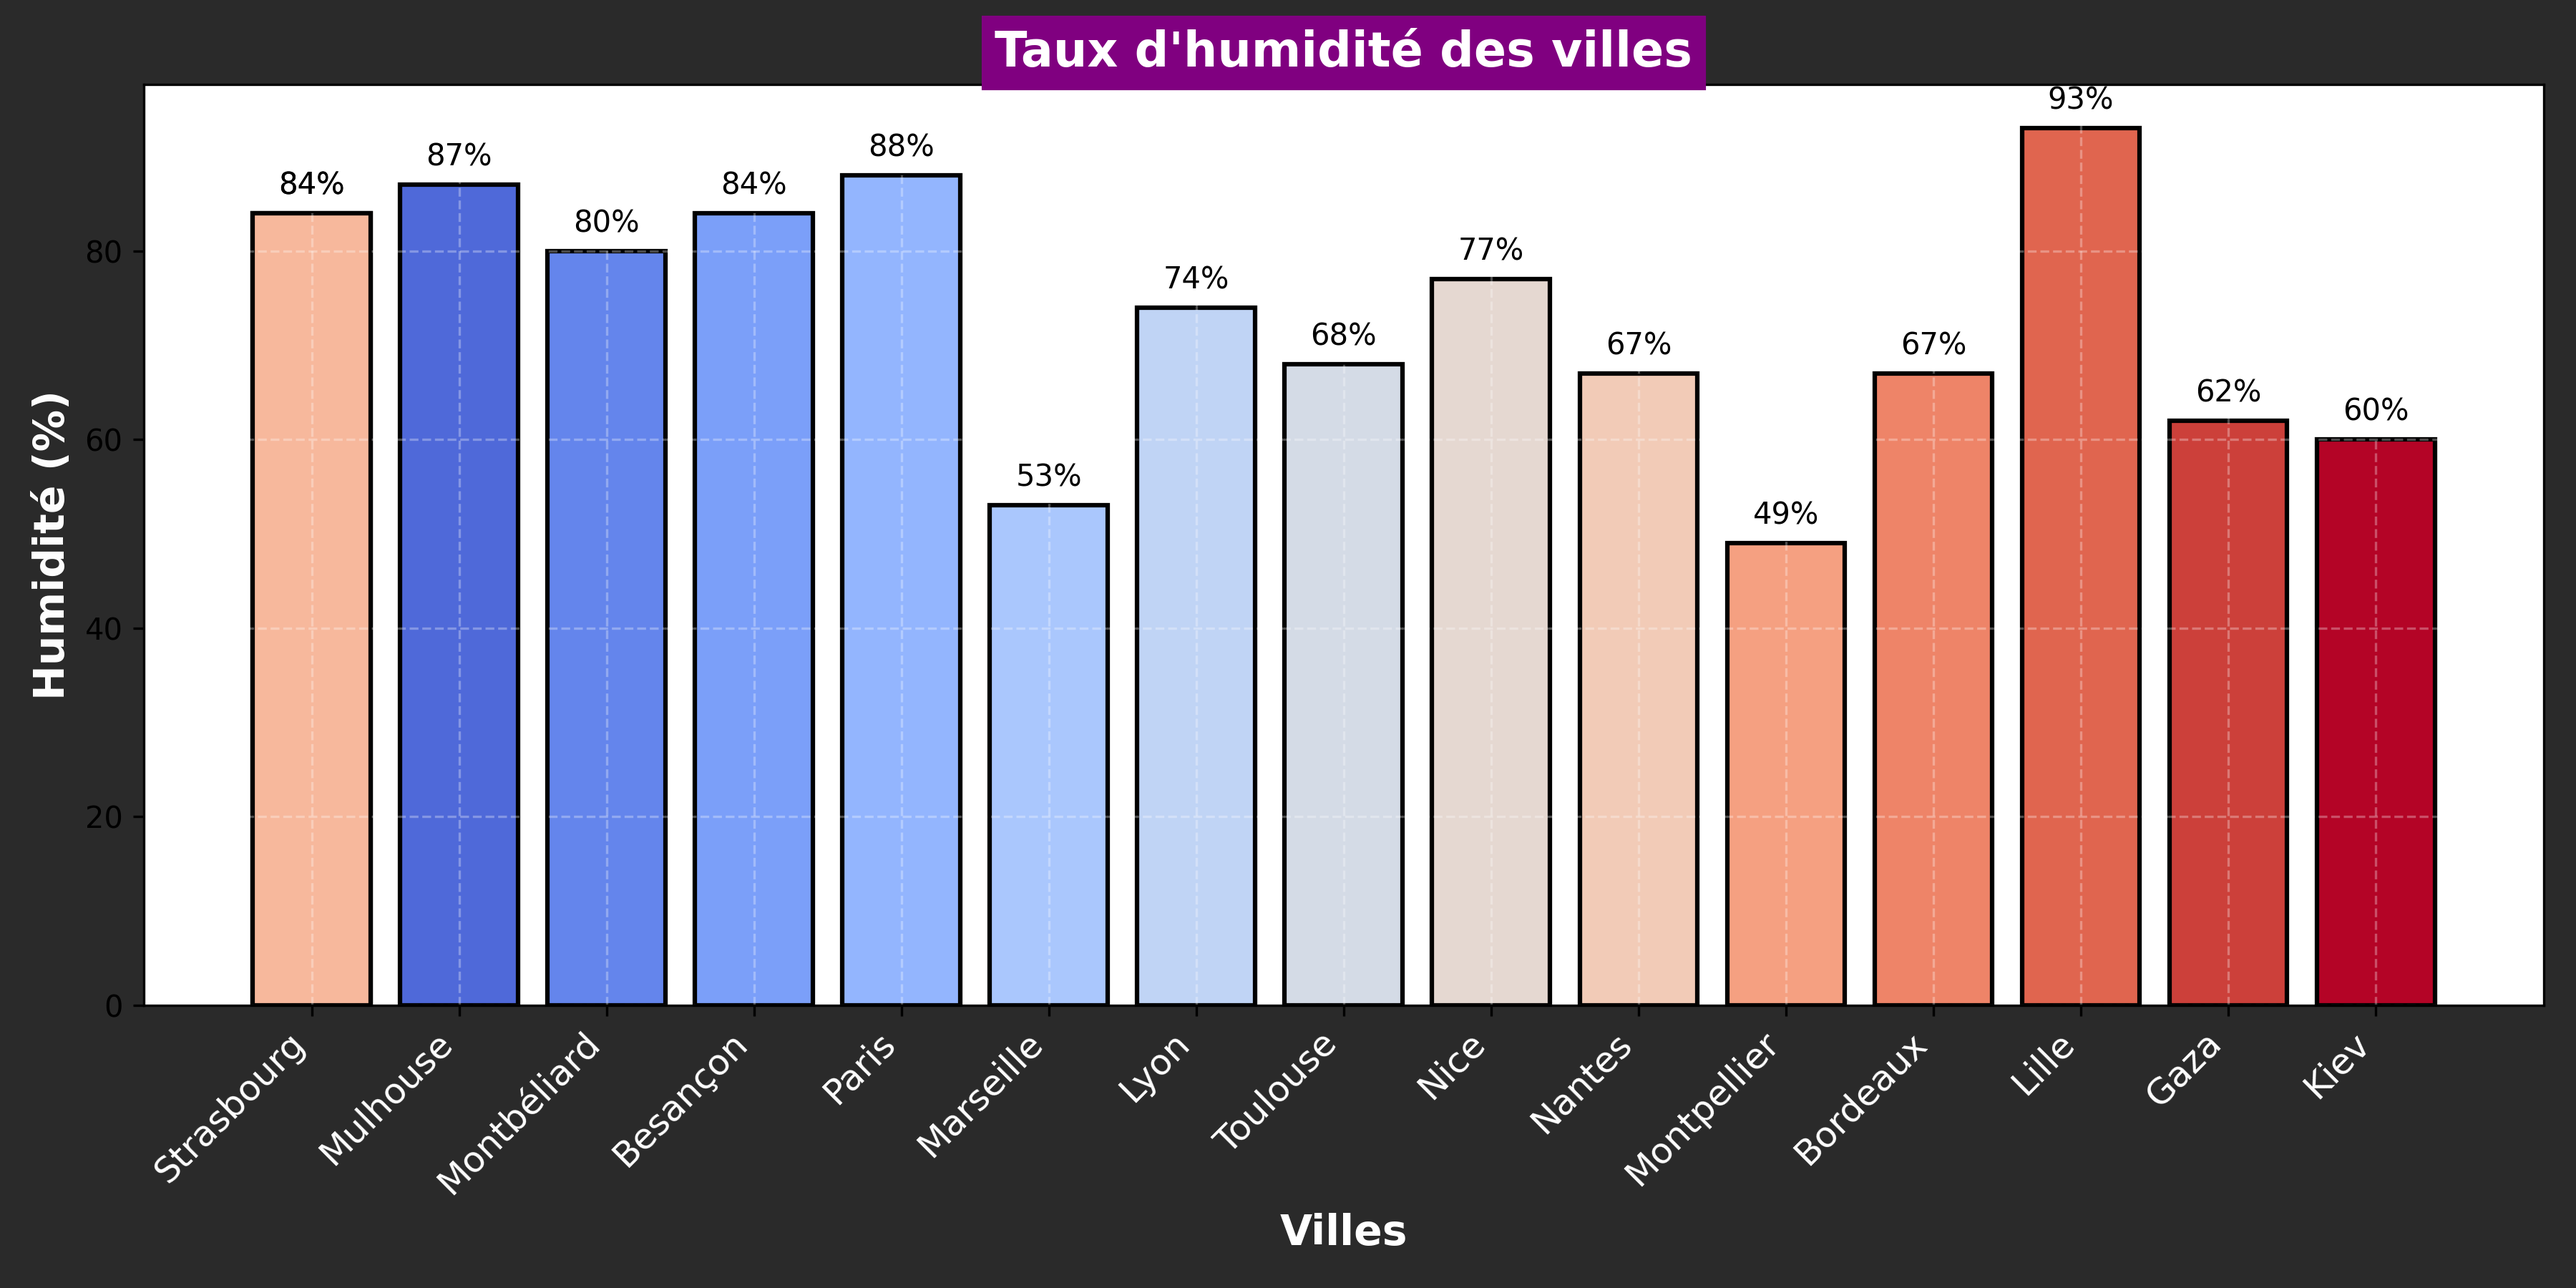
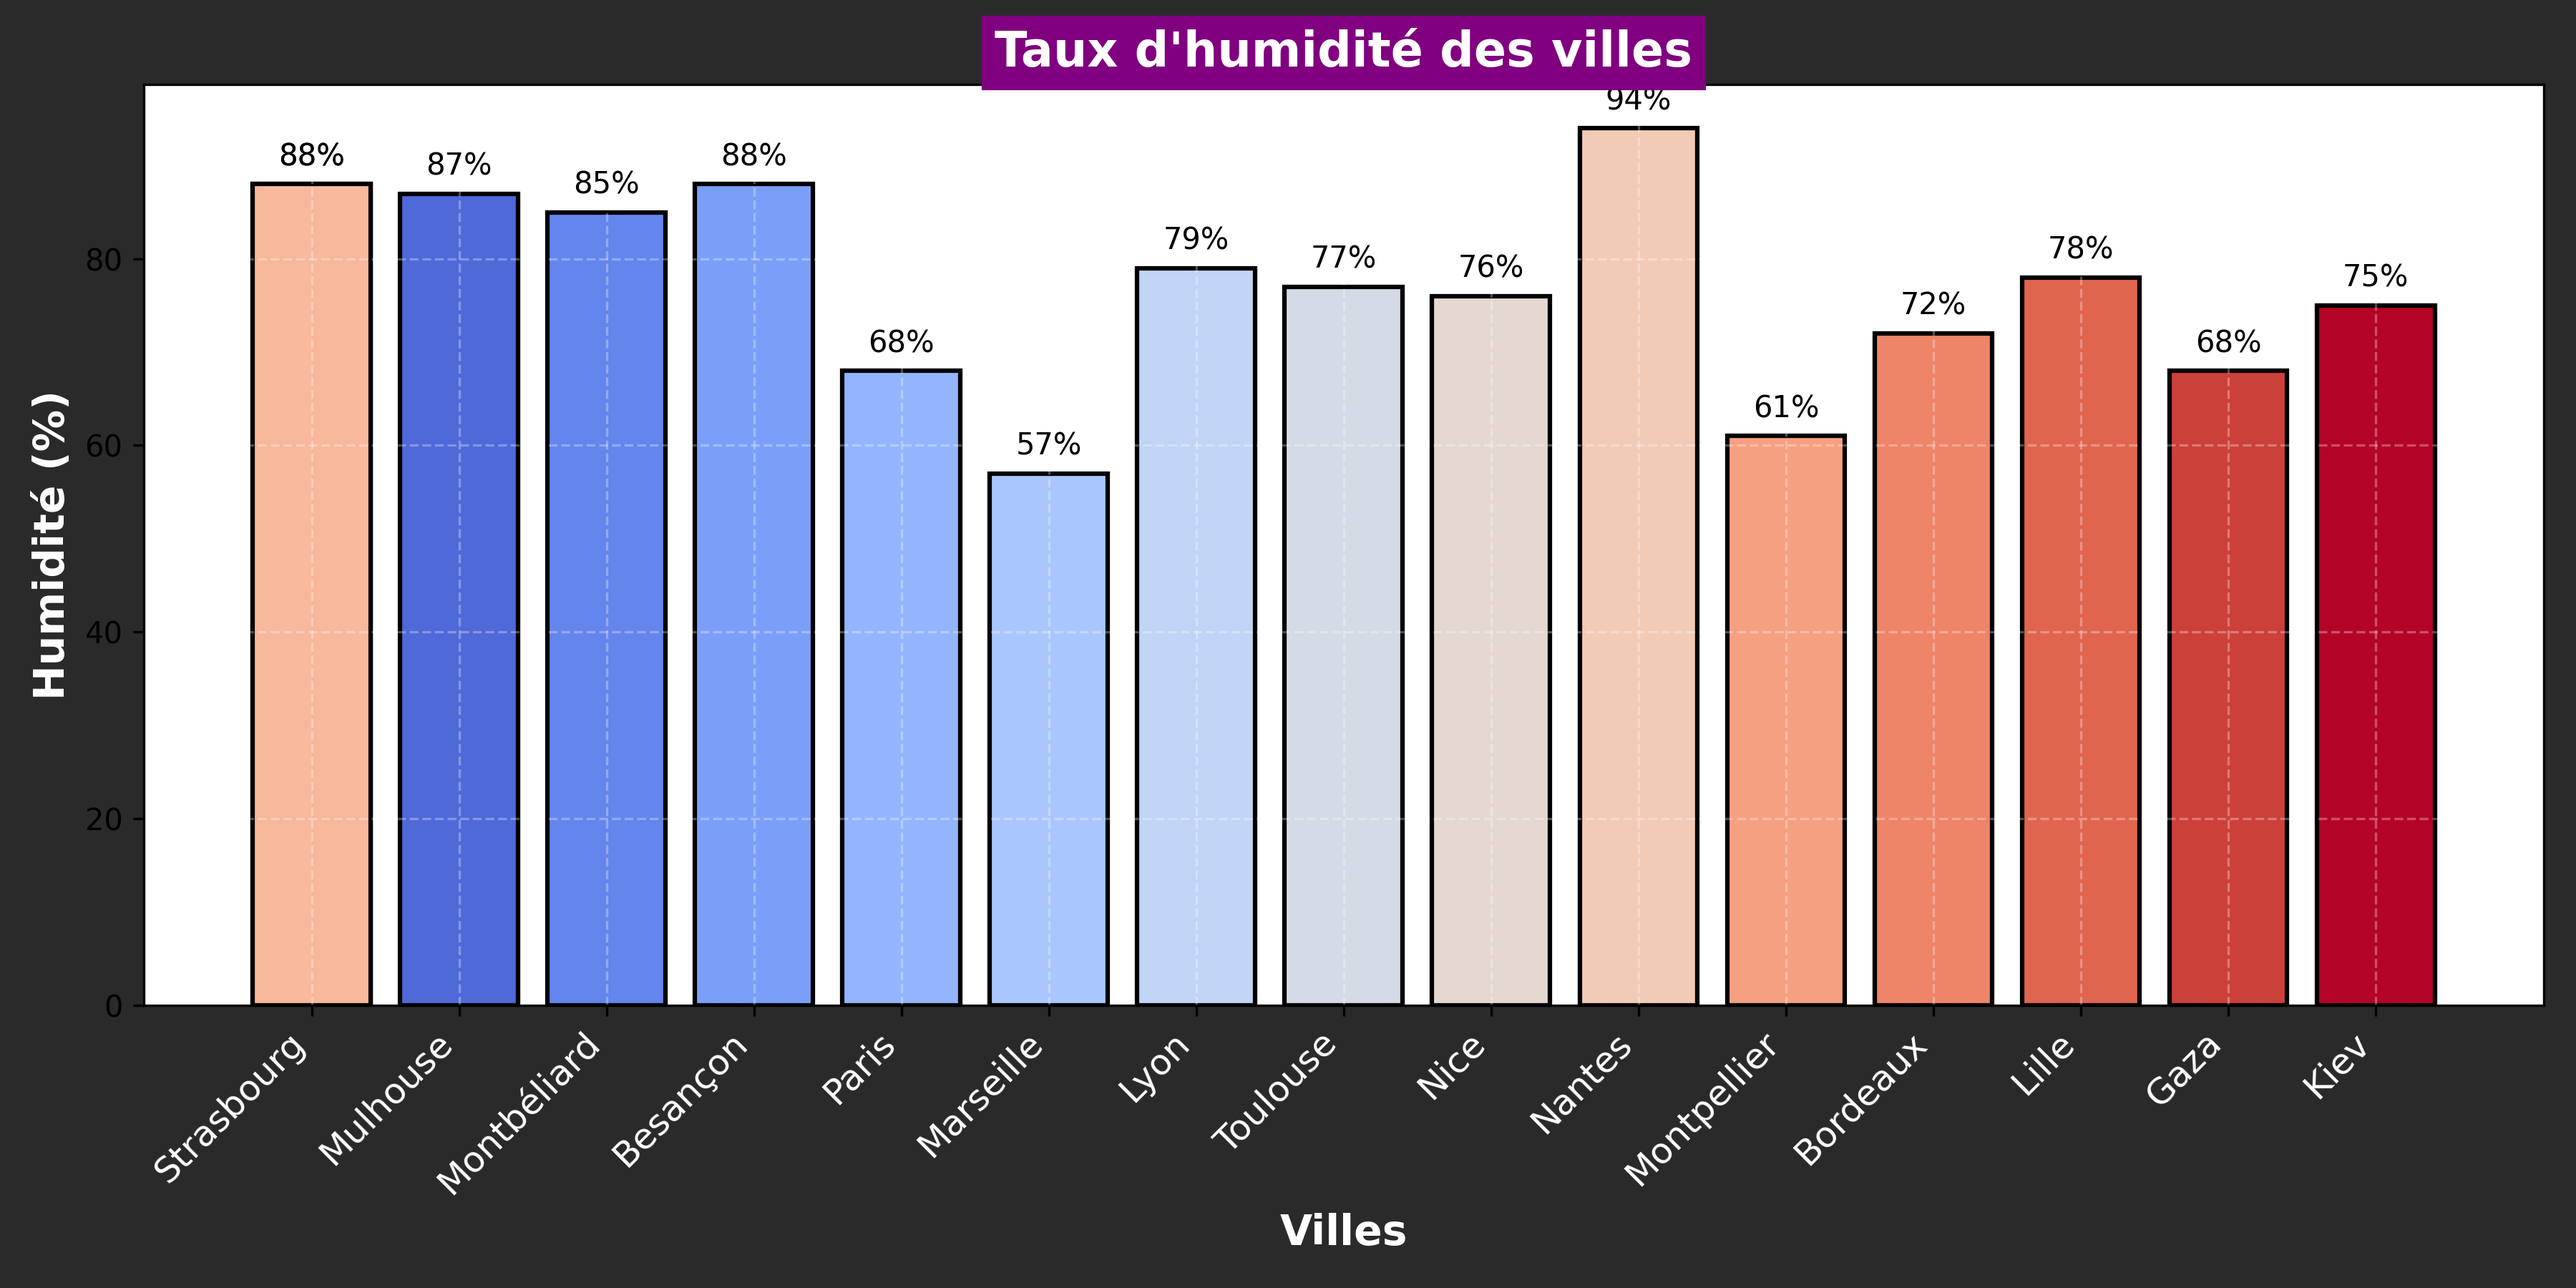
Mise à jour de la météo et ajout du graphique d'humidité

diff --git a/README.md b/README.md
@@ -24,103 +24,103 @@ Ce repo contient plusieurs workflows GitHub Actions :
 ## Météo actuelle :
 ## Météo des grandes villes + Gaza et Kiev 🌍
 
-🕒 Mise à jour : 06/08/2025 08:22:09
+🕒 Mise à jour : 07/08/2025 08:21:29
 
-### 🌍 Strasbourg 🌥
-**Conditions :** nuageux
-**Température :** 13.12°C
-**Humidité :** 84%
-**Vent :** 2.4 m/s
-
-### 🌍 Mulhouse ☀
+### 🌍 Strasbourg ☀
 **Conditions :** ciel dégagé
-**Température :** 13.1°C
-**Humidité :** 87%
-**Vent :** 1.34 m/s
-
-### 🌍 Montbéliard 🌥
-**Conditions :** nuageux
-**Température :** 14.99°C
-**Humidité :** 80%
-**Vent :** 3.93 m/s
-
-### 🌍 Besançon 🌥
-**Conditions :** nuageux
-**Température :** 11.89°C
-**Humidité :** 84%
-**Vent :** 2.13 m/s
-
-### 🌍 Paris ☀
-**Conditions :** ciel dégagé
-**Température :** 13.67°C
+**Température :** 14°C
 **Humidité :** 88%
 **Vent :** 1.03 m/s
 
-### 🌍 Marseille 🌥
+### 🌍 Mulhouse ☀
+**Conditions :** ciel dégagé
+**Température :** 13.8°C
+**Humidité :** 87%
+**Vent :** 1.54 m/s
+
+### 🌍 Montbéliard 🌥
 **Conditions :** partiellement nuageux
-**Température :** 20.29°C
-**Humidité :** 53%
-**Vent :** 1.94 m/s
+**Température :** 17.77°C
+**Humidité :** 85%
+**Vent :** 0.29 m/s
+
+### 🌍 Besançon 🌥
+**Conditions :** partiellement nuageux
+**Température :** 14.39°C
+**Humidité :** 88%
+**Vent :** 0.85 m/s
+
+### 🌍 Paris ☀
+**Conditions :** ciel dégagé
+**Température :** 17.37°C
+**Humidité :** 68%
+**Vent :** 1.03 m/s
+
+### 🌍 Marseille 🌥
+**Conditions :** nuageux
+**Température :** 21.4°C
+**Humidité :** 57%
+**Vent :** 1.31 m/s
 
 ### 🌍 Lyon 🌥
-**Conditions :** partiellement nuageux
-**Température :** 12.92°C
-**Humidité :** 74%
-**Vent :** 1.29 m/s
-
-### 🌍 Toulouse ☀
-**Conditions :** ciel dégagé
-**Température :** 18.99°C
-**Humidité :** 68%
-**Vent :** 2.06 m/s
-
-### 🌍 Nice 🌥
 **Conditions :** peu nuageux
-**Température :** 18.05°C
+**Température :** 13.41°C
+**Humidité :** 79%
+**Vent :** 0.48 m/s
+
+### 🌍 Toulouse 🌥
+**Conditions :** peu nuageux
+**Température :** 18.99°C
 **Humidité :** 77%
-**Vent :** 1.08 m/s
+**Vent :** 1.03 m/s
+
+### 🌍 Nice ☀
+**Conditions :** ciel dégagé
+**Température :** 18.05°C
+**Humidité :** 76%
+**Vent :** 1.77 m/s
 
 ### 🌍 Nantes ☀
 **Conditions :** ciel dégagé
-**Température :** 15.96°C
-**Humidité :** 67%
-**Vent :** 3.09 m/s
+**Température :** 13.96°C
+**Humidité :** 94%
+**Vent :** 0 m/s
 
-### 🌍 Strasbourg 🌥
-**Conditions :** nuageux
-**Température :** 13.12°C
-**Humidité :** 84%
-**Vent :** 2.4 m/s
+### 🌍 Strasbourg ☀
+**Conditions :** ciel dégagé
+**Température :** 14°C
+**Humidité :** 88%
+**Vent :** 1.03 m/s
 
 ### 🌍 Montpellier ☀
 **Conditions :** ciel dégagé
-**Température :** 20.83°C
-**Humidité :** 49%
+**Température :** 20.28°C
+**Humidité :** 61%
 **Vent :** 2.06 m/s
 
 ### 🌍 Bordeaux ☀
 **Conditions :** ciel dégagé
 **Température :** 16.15°C
-**Humidité :** 67%
-**Vent :** 4.12 m/s
+**Humidité :** 72%
+**Vent :** 0 m/s
 
 ### 🌍 Lille ☀
 **Conditions :** ciel dégagé
-**Température :** 13.63°C
-**Humidité :** 93%
-**Vent :** 0 m/s
+**Température :** 15.86°C
+**Humidité :** 78%
+**Vent :** 1.54 m/s
 
 ### 🌍 Gaza ☀
 **Conditions :** ciel dégagé
-**Température :** 28.03°C
-**Humidité :** 62%
-**Vent :** 1.92 m/s
+**Température :** 28.87°C
+**Humidité :** 68%
+**Vent :** 2.75 m/s
 
 ### 🌍 Kiev ☀
 **Conditions :** ciel dégagé
-**Température :** 22.01°C
-**Humidité :** 60%
-**Vent :** 2.6 m/s
+**Température :** 20.4°C
+**Humidité :** 75%
+**Vent :** 0.45 m/s
 
 <p align='center'><img src='https://raw.githubusercontent.com/khoa083/khoa/main/Khoa_ne/img/Rainbow.gif' width='100%' style='border-radius: 5px; border: 3px solid #39FF14; box-shadow: 0 0 10px #39FF14, 0 0 20px #39FF14;' /></p>
 
